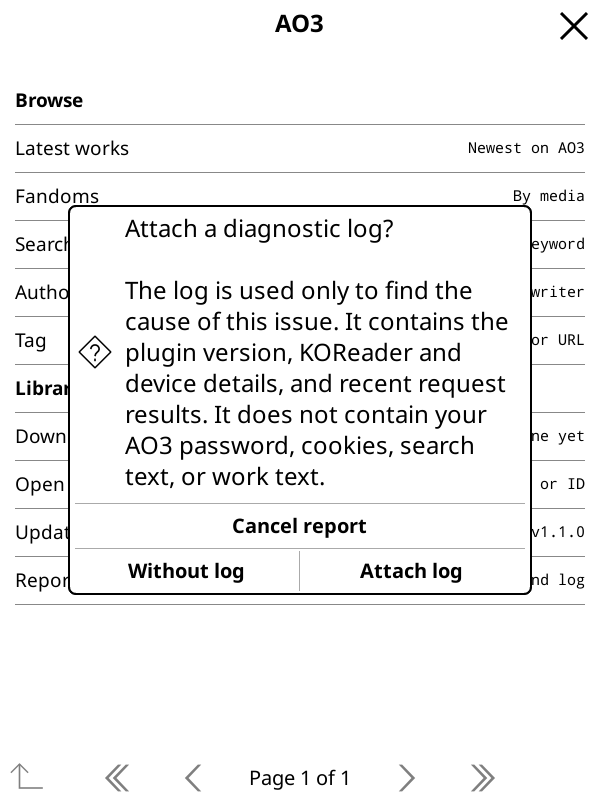
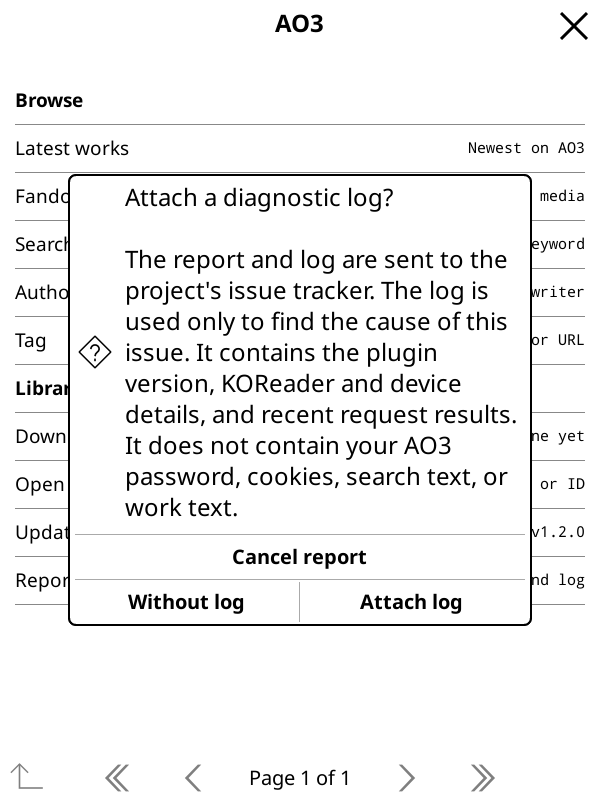
Send bug reports through the KO3 Cloudflare relay
"Attach log" is now the last step: the plugin POSTs the report to a
Cloudflare Worker that files the issue with a fine-grained GitHub token
(Issues: write on KO3 only), so users need no GitHub account and no token
ships in the plugin.

- relay/worker.js: POST /report, 60k body cap, 10 reports/IP/day in KV,
  creates a [report] issue with the bug label; other methods return 405.
- relay/wrangler.toml + README: deploy, secret rotation and bindings.
- bugreport.lua: RELAY_URL, submitRelay() and deliver() (token first for
  the maintainer, relay otherwise); falls back to the saved bundle when
  neither is reachable.
- The consent dialog now states that the report and log go to the issue
  tracker and that the log is only to find the cause.
- Fix the gettext shadowing in finishReport (local `_`).
- 13 bug-report tests including relay success, rate limit and missing
  configuration. The relay was tested live from Lua (issues #1/#2, closed).
- Emulator captures 31-33 and 36.

Bump to 1.2.3.

diff --git a/relay/worker.js b/relay/worker.js
@@ -1,0 +1,89 @@
+// KO3 bug-report relay.
+//
+// The plugin posts a report here; this Worker files it on GitHub with a
+// fine-grained token that never ships in the plugin. Reports are rate-limited
+// per IP so a public endpoint cannot be used to spam the tracker.
+//
+// Secrets:  GITHUB_TOKEN  fine-grained token, Issues: read and write on REPO
+// Vars:     REPO          owner/name
+// Bindings: RATE          KV namespace
+
+const MAX_BODY_CHARS = 60000;
+const DAILY_LIMIT = 10;
+const LABEL = "bug";
+
+function json(body, status = 200) {
+  return new Response(JSON.stringify(body), {
+    status,
+    headers: { "content-type": "application/json; charset=utf-8" },
+  });
+}
+
+export default {
+  async fetch(request, env) {
+    if (request.method !== "POST") {
+      return json({ error: "POST only" }, 405);
+    }
+    if (new URL(request.url).pathname !== "/report") {
+      return json({ error: "not found" }, 404);
+    }
+
+    const ip = request.headers.get("CF-Connecting-IP") || "unknown";
+    const day = new Date().toISOString().slice(0, 10);
+    const key = `rl:${ip}:${day}`;
+    const used = parseInt((await env.RATE.get(key)) || "0", 10);
+    if (used >= DAILY_LIMIT) {
+      return json({ error: "too many reports from this connection today" }, 429);
+    }
+
+    const text = await request.text();
+    if (text.length > MAX_BODY_CHARS) {
+      return json({ error: "report is too large" }, 413);
+    }
+
+    let data;
+    try {
+      data = JSON.parse(text);
+    } catch {
+      return json({ error: "invalid JSON" }, 400);
+    }
+    if (typeof data.title !== "string" || typeof data.body !== "string") {
+      return json({ error: "title and body are required" }, 400);
+    }
+
+    const title = `[report] ${data.title}`.slice(0, 120);
+    const body = [
+      data.body,
+      "",
+      "---",
+      `Relay received: ${new Date().toISOString()}`,
+      `Client: ${String(data.version || "unknown").slice(0, 40)}`,
+      `From: ${ip}`,
+    ].join("\n");
+
+    const response = await fetch(
+      `https://api.github.com/repos/${env.REPO}/issues`,
+      {
+        method: "POST",
+        headers: {
+          Authorization: `Bearer ${env.GITHUB_TOKEN}`,
+          Accept: "application/vnd.github+json",
+          "User-Agent": "KO3-relay",
+          "Content-Type": "application/json",
+        },
+        body: JSON.stringify({ title, body, labels: [LABEL] }),
+      },
+    );
+
+    if (!response.ok) {
+      return json(
+        { error: "the issue tracker rejected the report", status: response.status },
+        502,
+      );
+    }
+
+    const issue = await response.json();
+    await env.RATE.put(key, String(used + 1), { expirationTtl: 172800 });
+    return json({ url: issue.html_url, number: issue.number });
+  },
+};

diff --git a/README.md b/README.md
@@ -33,12 +33,13 @@ details captured from a live work.
 | ![Author works](screenshots/13-author-works.png) | ![Update row](screenshots/29-update-home.png) |
 | ![Update prompt](screenshots/30-update-dialog.png) | ![Report row](screenshots/31-report-home.png) |
 | ![Report editor](screenshots/32-report-editor.png) | ![Log consent](screenshots/33-report-consent.png) |
-| ![Work summary expanded](screenshots/18-work-summary.png) | ![Work tags expanded](screenshots/19-work-tags.png) |
-| ![Sign in on the landing page](screenshots/24-home-signed-out.png) | ![Account on the landing page](screenshots/25-home-signed-in.png) |
-| ![Work account actions](screenshots/26-work-account-actions.png) | ![Work actions while signed out](screenshots/27-work-actions-signed-out.png) |
-| ![Account page](screenshots/28-account.png) | ![Chapter-only TOC](screenshots/14-reader-toc.png) |
-| ![Back to AO3 in menu](screenshots/15-reader-back-to-ao3.png) | ![Back to AO3 at end](screenshots/16-end-dialog-back.png) |
-| ![Back on the AO3 screen](screenshots/17-back-on-ao3-screen.png) | ![KO3 at the bottom of Tools](screenshots/34-tools-menu.png) |
+| ![Report sent](screenshots/36-report-sent.png) | ![Work summary expanded](screenshots/18-work-summary.png) |
+| ![Work tags expanded](screenshots/19-work-tags.png) | ![Sign in on the landing page](screenshots/24-home-signed-out.png) |
+| ![Account on the landing page](screenshots/25-home-signed-in.png) | ![Work account actions](screenshots/26-work-account-actions.png) |
+| ![Work actions while signed out](screenshots/27-work-actions-signed-out.png) | ![Account page](screenshots/28-account.png) |
+| ![Chapter-only TOC](screenshots/14-reader-toc.png) | ![Back to AO3 in menu](screenshots/15-reader-back-to-ao3.png) |
+| ![Back to AO3 at end](screenshots/16-end-dialog-back.png) | ![Back on the AO3 screen](screenshots/17-back-on-ao3-screen.png) |
+| ![KO3 at the bottom of Tools](screenshots/34-tools-menu.png) | |
 
 ## Install
 
@@ -231,10 +232,20 @@ the release page is on `github.com`). Later updates then work in place.
 
 ### Reporting a bug
 
-**Tools → KO3 → Report a bug** opens a text field. After you
-describe what happened, a consent dialog asks whether to attach the
-diagnostic log and states that it is used only to find the cause of the
-issue. Choosing **Without log** sends the description alone.
+**Tools → KO3 → Report a bug** opens a text field. After you describe what
+happened, a consent dialog asks whether to attach the diagnostic log and
+states that the report and log are sent to the project's issue tracker, and
+that the log is used only to find the cause. Choosing **Without log** sends
+the description alone.
+
+**Attach log is the last step.** The report is POSTed to the KO3 relay
+(`relay/worker.js`, a small Cloudflare Worker), which files the issue with a
+fine-grained GitHub token that never ships in the plugin. The relay accepts
+10 reports per IP per day. No GitHub account is needed.
+
+If the relay cannot be reached, the report is still saved on the device as
+`koreader/ao3/reports/bug-<timestamp>/report.md` plus `log.txt`, ready to
+attach to [a new issue](https://github.com/hemil2005/KO3/issues/new).
 
 What the log contains:
 
@@ -246,19 +257,12 @@ What it never contains: your AO3 password (the plugin stores none), cookies,
 search text, work titles or work text. Query strings and fragments are
 stripped before anything is written.
 
-Delivery:
-
-- With `settings/ao3_report_token` present (a fine-grained GitHub token with
-  **Issues: write**), the report is filed automatically and the log is
-  embedded in the issue body.
-- Without it, the report is saved on the device as
-  `koreader/ao3/reports/bug-<timestamp>/report.md` plus `log.txt`, ready to
-  attach to [a new issue](https://github.com/hemil2005/KO3/issues/new).
-  GitHub does not allow anonymous issue creation, so this is the
-  credential-free path.
-
 The log itself lives at `koreader/ao3/logs/ao3.log`, is capped at 256 KB
 (one rotation to `ao3.log.1`) and is only read when you create a report.
+
+`settings/ao3_report_token` (a fine-grained token with **Issues: write**)
+bypasses the relay for the maintainer's device. The relay's deployment and
+token rotation are documented in `relay/README.md`.
 
 ## How it works
 
@@ -303,6 +307,10 @@ Work actions (only after Sign in; one form post per tap):
 Reading:
   GET https://download.archiveofourown.org/downloads/<work_id>/work.html
     -> AO3's own HTML download, saved and opened by crengine
+
+Bug reports (only on tap, after consent):
+  POST https://ko3-reports.ko3-reports.workers.dev/report
+    -> relay files a GitHub issue with a fine-grained token
 ```
 
 The fandom snapshot is generated from AO3 with `tools/build_fandoms.py`:
@@ -393,8 +401,9 @@ Tested in the KOReader emulator with a native HTTP client (no browser):
   restore-previous; the update row and prompt render in the emulator
   (`screenshots/29`–`30`).
 - Bug reports: query stripping, consent-gated log inclusion, report bundle
-  writing, token handling and the three screens render in the emulator
-  (`screenshots/31`–`33`).
+  writing, relay submission and token handling; the four screens render in
+  the emulator (`screenshots/31`–`33`, `36`). The relay was tested live end
+  to end from `bugreport.lua` (issues #1 and #2, then closed).
 - The KO3 entry is directly on the Tools tab, at the bottom of its first page
   (`screenshots/34`), not nested under More tools.
 - The author tabs: tapping **Bookmarks** opens the author's bookmarked works
@@ -404,7 +413,7 @@ Tested in the KOReader emulator with a native HTTP client (no browser):
   downgrade, a stalled transfer resumed with a Range request, the retry budget,
   and the codeload source archive installing a real 3.7 MB tree on the
   emulator when the asset CDN is unreachable.
-- The offline `busted` suite: 235 tests passing across parser, navigation,
+- The offline `busted` suite: 238 tests passing across parser, navigation,
   bounded-index, rendered-card interaction, old-build compatibility,
   author-page, work-page, account-screen, home-page, reader-hook, updater and
   bug-report tests, including 51 account tests across token parsing, the
@@ -532,7 +541,7 @@ Tests prove behaviour; the emulator capture shows the actual result.
 | “failed its checksum” | The download was truncated or altered; nothing was installed. Try again |
 | “does not contain the plugin” | The release asset is wrong or incomplete; the installed copy was left untouched |
 | Update installed but nothing changed | KOReader is still running the old code — use **Restart** in the prompt, or restart it yourself |
-| “Report saved” but no issue was created | No `settings/ao3_report_token`; attach `report.md` (and `log.txt`) to a new issue |
+| “Report saved” but no issue was created | The relay was unreachable; attach `report.md` (and `log.txt`) to a new issue |
 | “Could not send the report” | Token rejected or no network; the report is still saved in `ao3/reports/` |
 
 If a work opens as a login page or an adult warning, the file is rejected

diff --git a/relay/README.md b/relay/README.md
@@ -1,0 +1,73 @@
+# KO3 report relay
+
+A tiny Cloudflare Worker that files bug reports as GitHub issues. The
+plugin posts a report here; the Worker holds the GitHub token, so no
+credential ships in the plugin and users do not need a GitHub account.
+
+```
+plugin ──POST /report──▶ Worker ──POST /repos/.../issues──▶ GitHub
+                          │
+                          └─ KV: 10 reports / IP / day
+```
+
+Deployed endpoint (used by `bugreport.lua`):
+
+```
+https://ko3-reports.ko3-reports.workers.dev/report
+```
+
+## Configuration
+
+| Name | Kind | Value |
+|---|---|---|
+| `REPO` | var | `hemil2005/KO3` |
+| `GITHUB_TOKEN` | secret | fine-grained token, **Issues: read and write**, only this repo |
+| `RATE` | KV binding | namespace id in `wrangler.toml` |
+
+The token is fine-grained and scoped to KO3 issues only. Rotate it when it
+expires (90 days) with `wrangler secret put GITHUB_TOKEN`; no code change or
+plugin release is needed.
+
+## Deploy
+
+From this directory, with a Cloudflare account that has Workers enabled:
+
+```sh
+npx wrangler login
+
+# once, if the namespace does not exist yet
+npx wrangler kv namespace create RATE
+# put the printed id in wrangler.toml
+
+npx wrangler secret put GITHUB_TOKEN   # paste the fine-grained token
+npx wrangler deploy
+```
+
+The first deploy needs a `workers.dev` subdomain; the dashboard or the API
+(`PUT /accounts/<id>/workers/subdomain`) sets it. The account subdomain is
+not renameable later.
+
+## Behaviour
+
+- `POST /report` with `{ "title": "...", "body": "...", "version": "..." }`.
+- Body is capped at 60,000 characters (GitHub's limit is 65,536).
+- Creates an issue titled `[report] <title>` with the `bug` label.
+- Rate limit: 10 reports per IP per day (KV counter, 2-day expiry).
+- Returns `{ "url": "...", "number": N }` on success; `429` when limited.
+- GET/other paths return 405/404, so the endpoint is not a web page.
+
+## Local development
+
+```sh
+npx wrangler dev
+```
+
+KV and the GitHub token are read from the same bindings; use a test repo and
+a throwaway token locally.
+
+## Privacy
+
+The Worker only receives what the plugin's consent dialog describes: the
+description, the environment block, and (if attached) the log. It adds the
+client IP and a timestamp to the issue body. It stores only a per-IP daily
+counter in KV.

diff --git a/ao3.koplugin/spec/README.md b/ao3.koplugin/spec/README.md
@@ -34,7 +34,8 @@ The tests are offline:
   traversal-safe entry planning, staged install, failed-rename rollback,
   restore-previous and checksum verification, with no network or real zip.
 - `ao3_bugreport_spec.lua` covers URL sanitising, log tails, consent-gated
-  report bodies, bundle writing and token handling.
+  report bodies, bundle writing, token handling and relay submission
+  (success, rate limit, missing configuration).
 - The report flow is also exercised through the UI: the home row, the
   editor, the log-consent dialog and the saved bundle.
 - The plugin loader test calls `load_plugin("ao3")`, so `_meta.lua` and
